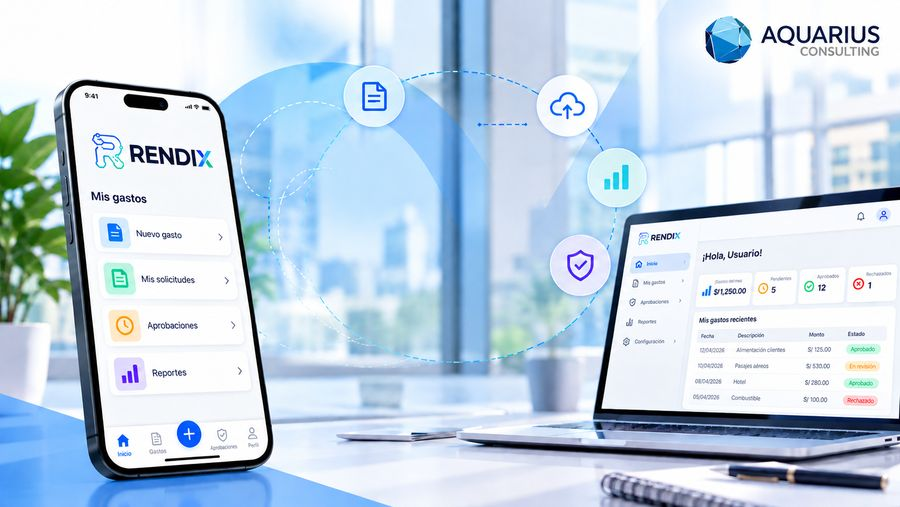
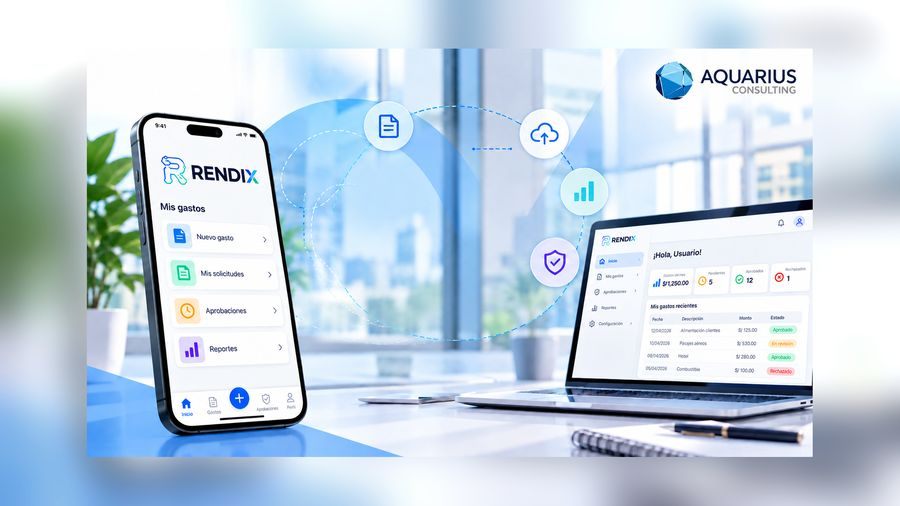
Los importes se escriben como se leen y no entran por la derecha
La pieza del ingreso lleva marco propio para que no se recorten las marcas

Sube la plantilla del menu lateral en pantalla chica que habia quedado sin subir

diff --git a/src/app/app.config.ts b/src/app/app.config.ts
@@ -8,6 +8,11 @@ import {
   withViewTransitions,
 } from '@angular/router';
 
+import {
+  provideEnvironmentNgxCurrency,
+  NgxCurrencyInputMode,
+} from 'ngx-currency';
+
 import { routes } from './app.routes';
 import { AuthInterceptor } from './interceptors/auth.interceptor';
 import {
@@ -18,6 +23,28 @@ import {
 
 export const appConfig: ApplicationConfig = {
   providers: [
+    /* ============================================================
+       COMO SE TIPEA LA PLATA
+       ------------------------------------------------------------
+       ngx-currency trae por defecto el modo Financial: los digitos
+       entran por la derecha, como una caja registradora. Apretar
+       1, 5, 0 daba 1.50, y para cargar 150 habia que tipear 15000.
+
+       Nadie lo configuro nunca, asi que los ocho campos de dinero
+       de la aplicacion venian con ese comportamiento. El resultado
+       son comprobantes cargados a mano con el monto cien veces mas
+       chico: uno de 150 soles guardado como 1.50.
+
+       En modo Natural se escribe el numero como se lee: 150 son
+       150, y los centavos van despues del punto.
+
+       OJO: esto NO corrige los comprobantes ya cargados. Los que
+       se guardaron divididos por cien siguen divididos por cien.
+    ============================================================ */
+    provideEnvironmentNgxCurrency({
+      inputMode: NgxCurrencyInputMode.Natural,
+    }),
+
     provideHttpClient(withInterceptorsFromDi()),
     provideRouter(
       routes,

diff --git a/src/app/views/login/login.component.scss b/src/app/views/login/login.component.scss
@@ -52,8 +52,28 @@
     url("../../../assets/images/brand/login-fondo.jpg"),
     linear-gradient(160deg, var(--rx-50) 0%, #EAF1FB 55%, #E3ECF8 100%);
   background-repeat: no-repeat;
-  background-position: center center;
   background-size: cover;
+
+  /* Centrada, ahora que la pieza trae marco propio.
+     ------------------------------------------------
+     "cover" agranda la imagen hasta tapar la ventana y tira el
+     sobrante de UN eje: el alto si la ventana es mas ancha que la
+     imagen, el ancho si es mas alta. Por eso el logo de Aquarius,
+     que estaba pegado al borde, se cortaba distinto en cada
+     monitor y en el grande desaparecia.
+
+     La imagen ahora tiene 12% de margen difuminado a cada lado.
+     Ese margen es lo que se come el recorte, y la parte que
+     importa queda adentro en todo el rango util:
+
+       ventana comun    (1.93)  ->  se recorta  4% de alto
+       ultrapanoramica  (2.33)  ->  se recorta 12% de alto
+       ventana alta     (1.45)  ->  se recorta 11% de ancho
+
+     Fuera de ese rango vuelve a recortar contenido. No hay forma
+     de evitarlo con una imagen fija: "cover" siempre sacrifica un
+     eje. */
+  background-position: center center;
 }
 
 /* El velo entre la imagen y la tarjeta.

diff --git a/src/app/components/layout/default-layout/default-layout.component.html b/src/app/components/layout/default-layout/default-layout.component.html
@@ -1,5 +1,16 @@
-<div class="layout" [class.no-sidebar]="!isDesktop || !isSidebarVisible">
-  <aside *ngIf="isDesktop && isSidebarVisible" class="sidebar">
+<div class="layout"
+     [class.no-sidebar]="!isSidebarVisible"
+     [class.menu-flotante]="esPantallaChica">
+
+  <!-- Fondo oscuro detras del menu abierto en pantalla chica: da
+       el "toca afuera para cerrar" y separa el menu del contenido. -->
+  <div class="sidebar-backdrop"
+       *ngIf="esPantallaChica && isSidebarVisible"
+       (click)="cerrarMenuLateral()"></div>
+
+  <!-- El *ngIf ya no mira isDesktop: en un telefono tambien tiene
+       que poder abrirse con la hamburguesa. -->
+  <aside *ngIf="isSidebarVisible" class="sidebar">
     <div class="logo-container">
       <!-- Version sin la bajada: en 150px de ancho "Sistema de
            Rendicion de Cuentas" mide 4px y se ve como una mancha. -->
